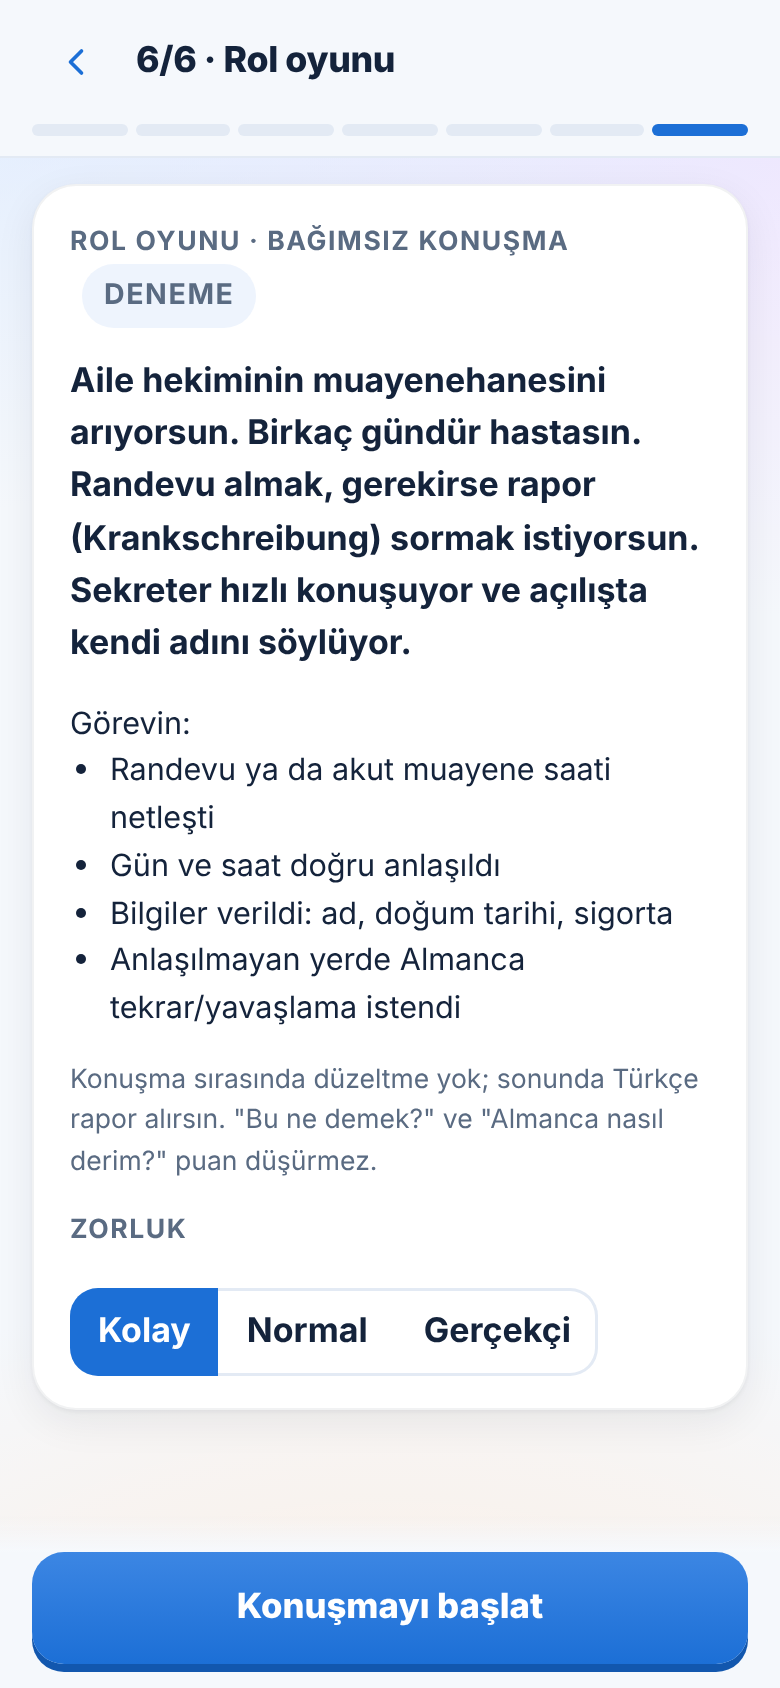
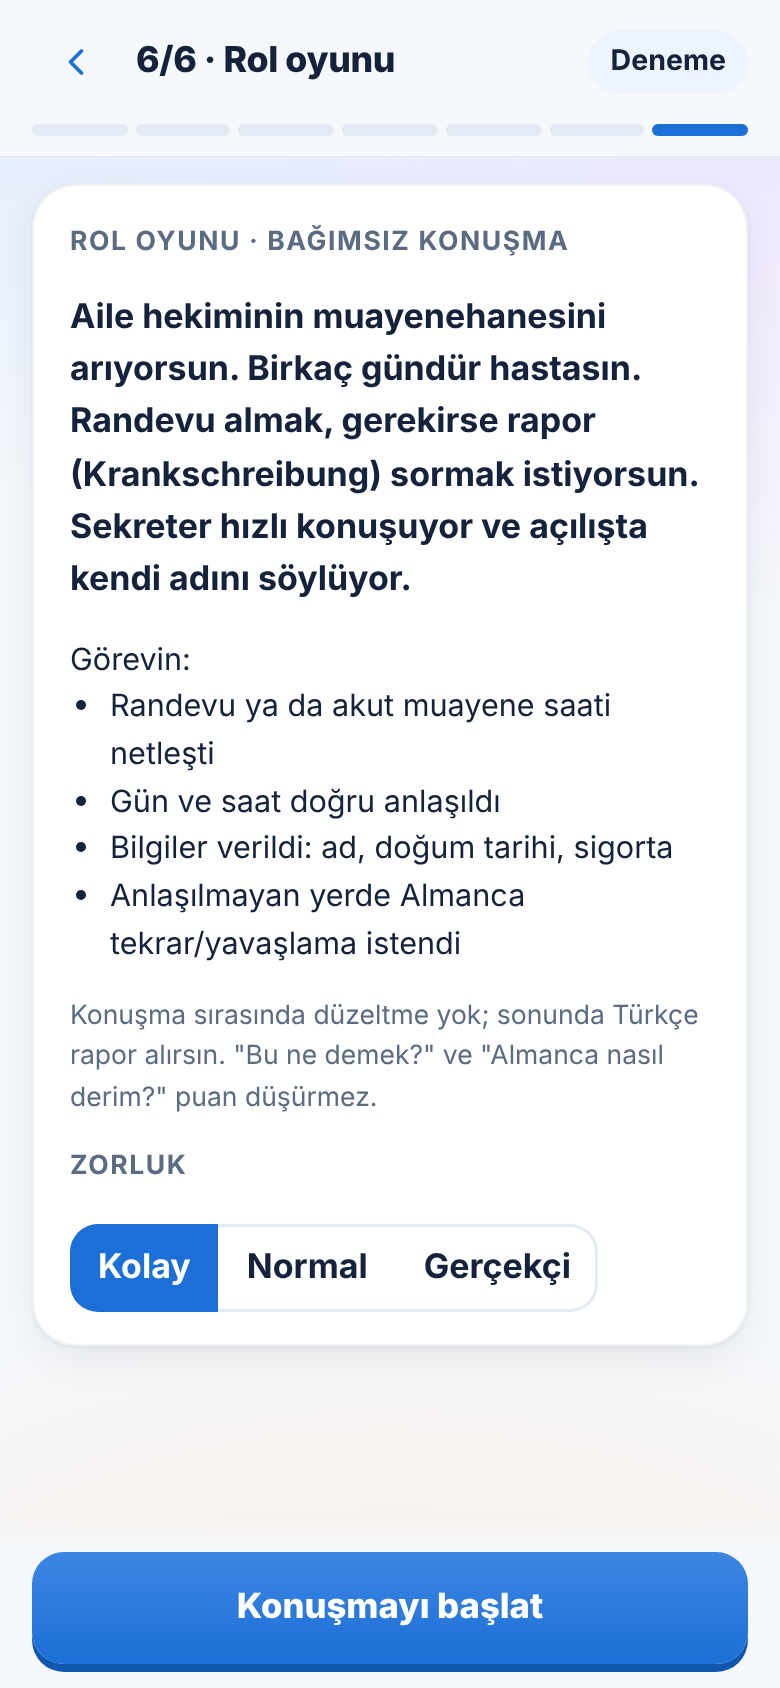
v2: 'Deneme' rozeti ekran başlık satırında, sağa yaslı, küçük harf (PM 7026867047)
- ProgressHeader 'right' yuvası: PlayerSection setRight; RoleplaySection mod 'ai' ve deneme sağlayıcısındayken rozeti koyar, yapay zekâsız moda geçince kaldırır
- kart içindeki kicker yalnız metin kaldı
- ucak.py D: rozet .pbar satırında, h1'in sağında, sağ uca yaslı, kart dışında, text-transform none
- yeni r01

Claude-Session: https://claude.ai/code/session_016gishG3oMjbKiLi4Fij94B

Changed region(s): [[0.0615, 0.154, 0.8923, 0.8318], [0.7385, 0.4929, 0.8615, 0.5545], [0.7692, 0.0308, 0.9231, 0.0616]]

diff --git a/web/src/screens/Player.tsx b/web/src/screens/Player.tsx
@@ -119,11 +119,12 @@ export function PlayerSection({ id, section }: { id: string; section: string }) 
   const { ctx, err, reload } = useScenario(id);
   const sec = SECTIONS[idx(section)];
   const [sub, setSub] = useState<preact.ComponentChildren>(null);
-  useEffect(() => setSub(null), [section]);
+  const [right, setRight] = useState<preact.ComponentChildren>(null);
+  useEffect(() => { setSub(null); setRight(null); }, [section]);
   useEffect(() => { if (sec) setLearning(true, sec.act as any, id); return () => setLearning(false); }, [id, section]);
   if (!sec) return <Empty title="Bölüm bulunamadı" action={<a class="btn sm" href={`#/scenario/${encodeURIComponent(id)}`}>Senaryoya dön</a>} />;
   const back = `#/scenario/${encodeURIComponent(id)}`;
-  const header = (step: number) => <ProgressHeader sub={sub} title={`${/\d/.test(sec.n) ? `${sec.n}/6 · ` : ""}${sec.title}`} back={back} step={step} doneSteps={ctx ? SECTIONS.map((x, i) => (ctx.prog.done.includes(x.k) ? i : -1)).filter((i) => i >= 0) : []} />;
+  const header = (step: number) => <ProgressHeader sub={sub} right={right} title={`${/\d/.test(sec.n) ? `${sec.n}/6 · ` : ""}${sec.title}`} back={back} step={step} doneSteps={ctx ? SECTIONS.map((x, i) => (ctx.prog.done.includes(x.k) ? i : -1)).filter((i) => i >= 0) : []} />;
   if (err) return <div class="stack">{header(idx(section))}<div class="card err"><p><b>Yüklenemedi.</b> {err}</p><button class="btn sm" onClick={reload}>Tekrar dene</button></div></div>;
   if (!ctx) return <div class="stack">{header(idx(section))}<LoadingCard lines={4} /></div>;
   const finish = async (score: number, total: number, extra: Partial<ScenarioProgress["runs"][number]> = {}, mut?: (p: ScenarioProgress) => void) => {
@@ -140,7 +141,7 @@ export function PlayerSection({ id, section }: { id: string; section: string }) 
     if (sec.k === "roleplay" && ratio >= 0.6) p.completedIndependentAt = new Date().toISOString();
     await ctx.setProg(p);
   };
-  const props = { ctx, finish, back, setSub };
+  const props = { ctx, finish, back, setSub, setRight };
   return (
     <div class="stack">
       {header(idx(section))}
@@ -154,7 +155,7 @@ export function PlayerSection({ id, section }: { id: string; section: string }) 
     </div>
   );
 }
-export type SP = { ctx: Ctx; finish: (score: number, total: number, extra?: Partial<ScenarioProgress["runs"][number]>, mut?: (p: ScenarioProgress) => void) => Promise<void>; back: string; setSub?: (n: preact.ComponentChildren) => void };
+export type SP = { ctx: Ctx; finish: (score: number, total: number, extra?: Partial<ScenarioProgress["runs"][number]>, mut?: (p: ScenarioProgress) => void) => Promise<void>; back: string; setSub?: (n: preact.ComponentChildren) => void; setRight?: (n: preact.ComponentChildren) => void };
 
 export function Done({ score, total, back, ctx, title, note, plain, production }: { score: number; total: number; back: string; ctx: Ctx; title: string; note?: string; plain?: string; production?: boolean }) {
   // PM-035 §5: tanıma aşamasında puan/oran yok; yalnızca ne öğrenileceği
@@ -478,13 +479,15 @@ function ChatEnd({ dep }: { dep: number }) {
 /* ============================ 6 Rol oyunu ============================ */
 const NON_GERMAN = /\b(the|and|you|please|sorry|yes|what|i'm|can|evet|hayır|lütfen|tamam|anlamadım|ne)\b/i;
 type Turn = { r: "partner" | "learner"; de: string };
-function RoleplaySection({ ctx, finish, back }: SP) {
+function RoleplaySection({ ctx, finish, back, setRight }: SP) {
   const { api, profile } = useApp();
   const persona: Persona = { name: profile.displayName, address: profile.address };
   const s = ctx.s;
   const runs = ctx.prog.runs.filter((x) => x.section === "roleplay").length;
   const [level, setLevel] = useState<1 | 2 | 3>(Math.min(3, 1 + Math.floor(runs / 2)) as 1 | 2 | 3);
   const [mode, setMode] = useState<"ai" | "offline">(aiState(api).available ? "ai" : "offline");
+  // PM 7026867047: deneme sağlayıcısı (Workers AI) rozeti ekran başlık satırının sağında, küçük harf "Deneme"; yapay zekâsız moda geçilince kalkar
+  useEffect(() => { setRight?.(mode === "ai" && denemeSaglayici() ? <span class="chip" data-test="ai-deneme">Deneme</span> : null); return () => setRight?.(null); }, [mode]);
   const [phase, setPhase] = useState<"intro" | "talk" | "report">("intro");
   const [turns, setTurns] = useState<Turn[]>([]);
   const [busy, setBusy] = useState(false);
@@ -568,7 +571,7 @@ function RoleplaySection({ ctx, finish, back }: SP) {
   if (phase === "intro") return (
     <div class="stack fade">
       <section class="card stack">
-        <div class="kicker">Rol oyunu · bağımsız konuşma{mode === "ai" && denemeSaglayici() && <span class="chip" style={{ marginLeft: 6 }} data-test="ai-deneme">deneme</span>}</div>
+        <div class="kicker">Rol oyunu · bağımsız konuşma</div>
         <p><b>{s.roleplay.scene_tr}</b></p>
         <div class="small">Görevin:</div>
         <ul class="small" style={{ margin: 0, paddingLeft: 20 }}>{s.roleplay.goals.map((g) => <li>{g.tr}</li>)}</ul>

diff --git a/tests/e2e/ucak.py b/tests/e2e/ucak.py
@@ -8,7 +8,7 @@ DN-2 §5 (PM-030, BY-12.1a) — internetsiz, mikrofonsuz ve yapay zekâsız duru
      ekranlarda geliştirici notu yok (PM-035/8).
   python3 tests/e2e/ucak.py [--browser webkit] [--device "iPhone 15"]
 """
-import json, re, urllib.parse
+import json, os, re, urllib.parse
 from playwright.sync_api import sync_playwright
 from common import CORS, serve, launch, new_page, login_onboard, check, finish, ERR, content_file
 
@@ -223,7 +223,14 @@ def main():
         b, ctx = launch(p); pg = ctx.new_page(); pg.route("https://api.e2e.test/**", api_wa)
         login_onboard(pg, PORT); pg.wait_for_selector("[data-tab=today]"); pg.wait_for_timeout(500)
         pg.goto(base + f"#/scenario/{SC}/roleplay"); pg.wait_for_selector("[data-test=rp-start]")
-        check(pg.locator("[data-test=ai-deneme]").count() == 1 and pg.inner_text("[data-test=ai-deneme]").lower() == "deneme", "D: Workers AI sağlayıcısında rol oyununda 'deneme' etiketi")
+        check(pg.locator("[data-test=ai-deneme]").count() == 1 and pg.inner_text("[data-test=ai-deneme]") == "Deneme", "D: Workers AI sağlayıcısında rol oyununda 'Deneme' etiketi (küçük harf, büyük harf dönüşümü yok)")
+        # PM 7026867047: rozet başlık satırında (dikeyde başlıkla kesişir) ve kartın sağ kenarına yaslı
+        # PM 7026867047: rozet ekranın başlık satırında (.pbar h1 ile aynı satır), başlığın sağında, satırın sağ ucuna yaslı; kart içinde değil
+        g = pg.evaluate("""() => { const c = document.querySelector('[data-test=ai-deneme]'); const row = c.closest('.pbar > .row'); const h = row && row.querySelector('h1');
+            if (!row || !h) return { pbar: false }; const a = c.getBoundingClientRect(), b = h.getBoundingClientRect(), r = row.getBoundingClientRect();
+            return { pbar: true, ayniSatir: a.top < b.bottom && b.top < a.bottom, sag: Math.round(r.right - a.right), solda: b.right <= a.left + 1, kartta: !!c.closest('.card'), tt: getComputedStyle(c).textTransform }; }""")
+        check(g.get("pbar") and g["ayniSatir"] and g["solda"] and abs(g["sag"]) <= 2 and not g["kartta"] and g["tt"] == "none", f"D: 'Deneme' rozeti başlık satırında, sağa yaslı ({g})")
+        if os.environ.get("R01"): pg.wait_for_timeout(600); pg.screenshot(path=os.environ["R01"])
         b.close()
     srv.shutdown()
     check(not [e for e in ERR if e.startswith("sayfa hatası")], "sayfa hatası yok")
